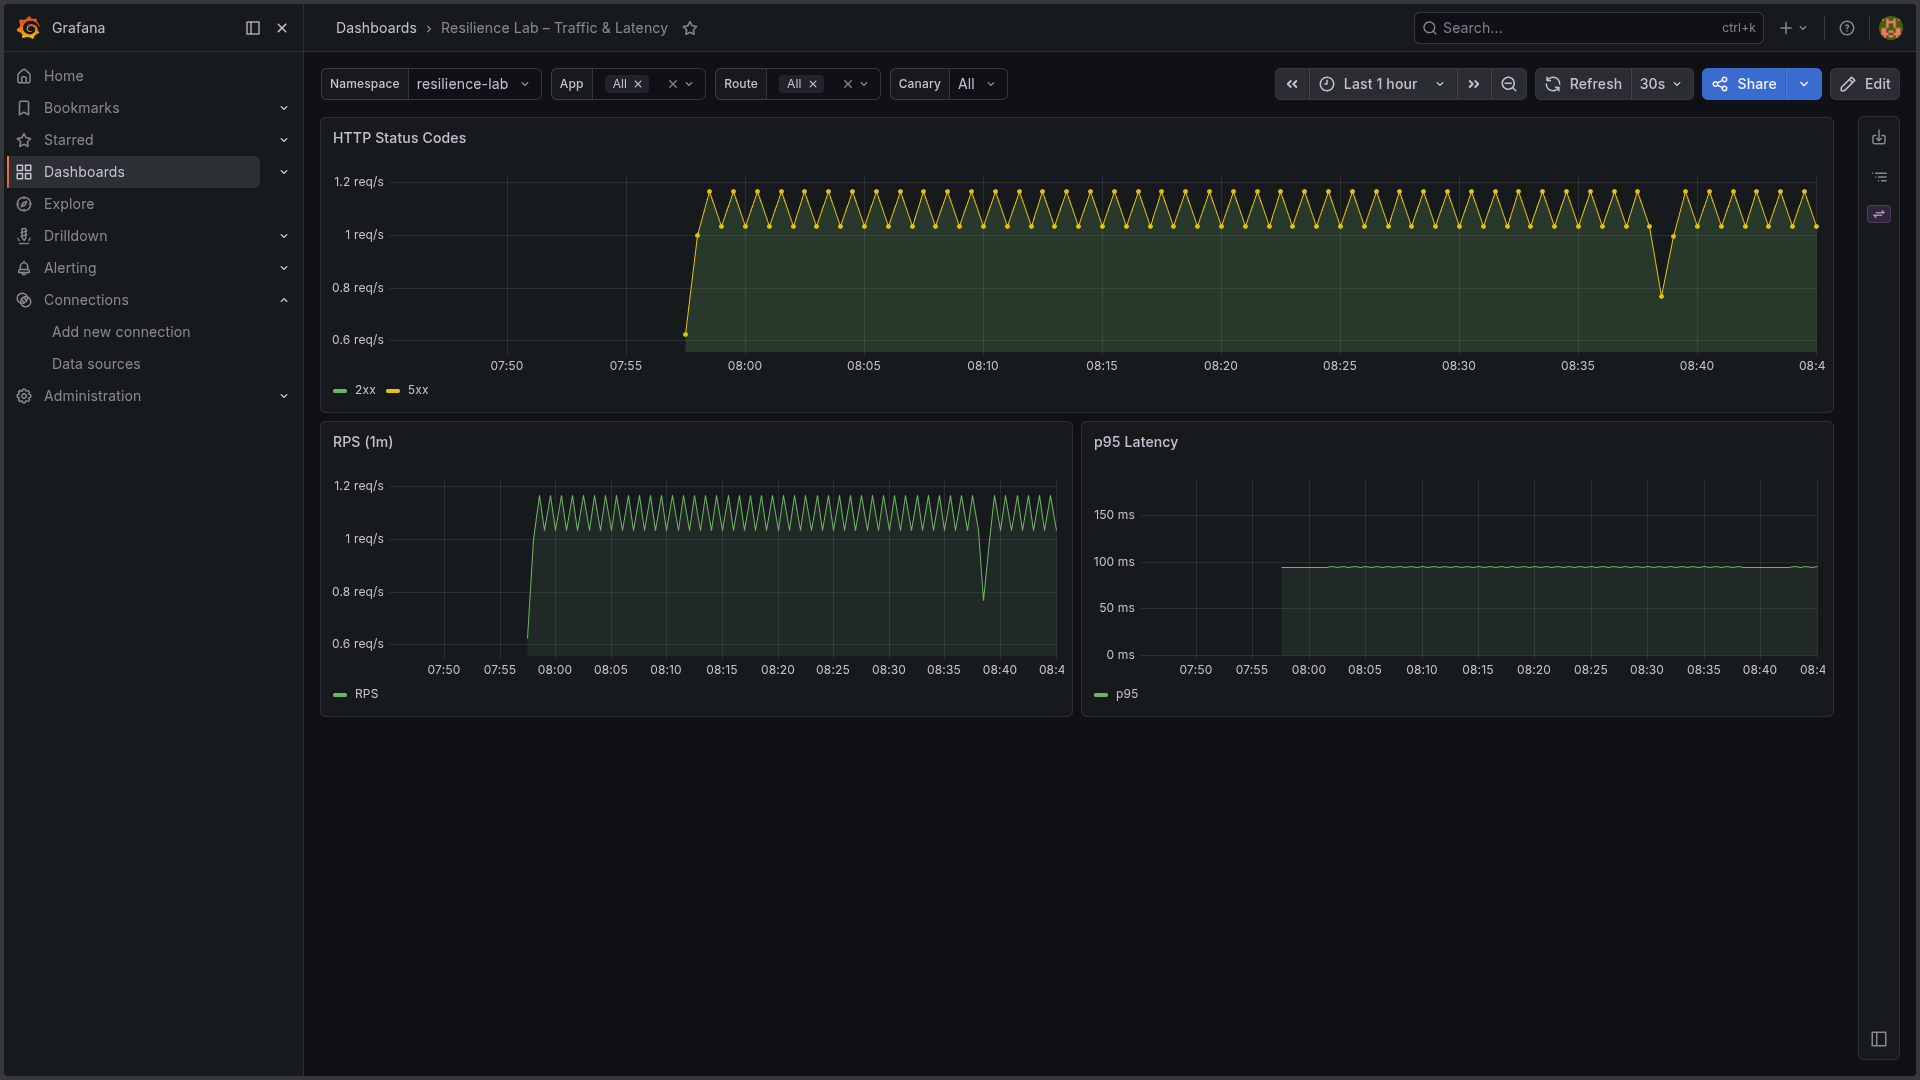
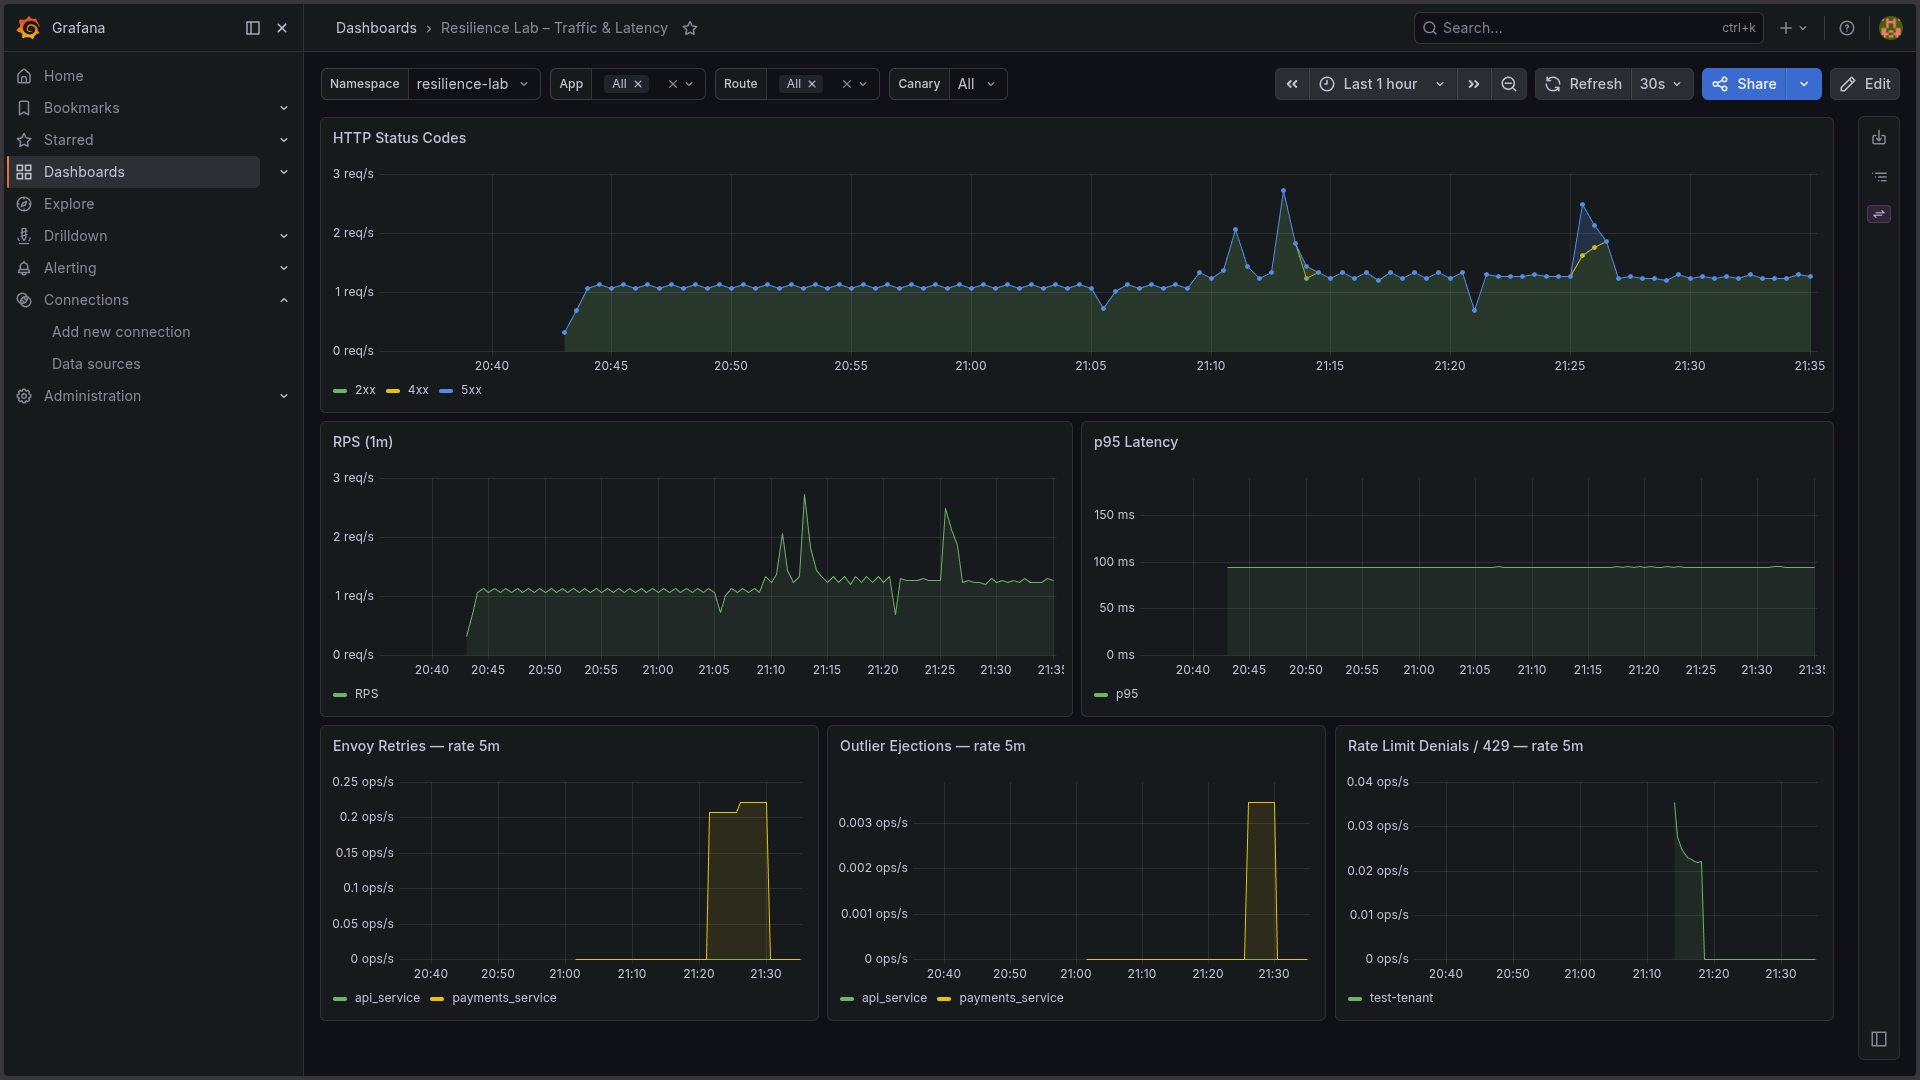
feat(observability): add retries, outlier ejection and 429 panels (closes #37)
Add envoy:retries:rate5m and envoy:outlier_ejections:rate5m recording
rules, three new dashboard panels (Envoy Retries, Outlier Ejections,
Rate Limit Denials / 429 - all rate 5m), docs, and updated screenshot.

diff --git a/docs/observability.md b/docs/observability.md
@@ -172,6 +172,23 @@ curl -u admin:<password from Secret prometheus-grafana> http://localhost:3000/ap
 `/api/search` should list "Resilience Lab 0 System Overview" at
 `/d/adnxcgd/resilience-lab-0-system-overview`.
 
+### Resilience Lab – Traffic & Latency
+
+The "Resilience Lab – Traffic & Latency" dashboard (`uid: resilience-core`) is
+provisioned the same way, via `deploy/helm/dashboards/resilience.json` and
+`deploy/helm/templates/grafana-dashboard-resilience.yaml`. Panels:
+
+- HTTP Status Codes, RPS (1m), p95 Latency
+- Envoy Retries — rate 5m (`envoy:retries:rate5m`, by `envoy_cluster_name`)
+- Outlier Ejections — rate 5m (`envoy:outlier_ejections:rate5m`, by `envoy_cluster_name`)
+- Rate Limit Denials / 429 — rate 5m (`api:rate_limit_denied:rate5m`, by `tenant`)
+
+The retry/ejection/429 panels read from the recording rules above rather than
+the raw `*_total` counters, so they show smoothed per-second rates instead of
+ever-growing totals.
+
+![Resilience Lab – Traffic & Latency dashboard](img/resilience-dashboard.png)
+
 ## Prometheus Configuration
 
 Prometheus-related manifests:
@@ -196,6 +213,8 @@ The project currently defines recording rules for:
 - Envoy 5xx error rate
 - Envoy p95 upstream request duration
 - Envoy active upstream connections
+- Envoy retry rate (`envoy:retries:rate5m`)
+- Envoy outlier ejection rate (`envoy:outlier_ejections:rate5m`)
 - API request rate
 - API 5xx error rate
 - Rate-limit allowed/denied request rates

diff --git a/README.md b/README.md
@@ -135,7 +135,8 @@ M0–M2 done (bootstrap, CI/CD, Helm, networking layer, resilience primitives). 
 - ✅ Alert rules (HighErrorRate, APIDown, PrometheusTargetDown)
 - ✅ Grafana: System Overview + Traffic & Latency dashboards
 - ✅ Loki + Promtail log aggregation, LogQL in Grafana Explore
-- ✅ Grafana resilience dashboard (rate limiting / circuit breaker panels)
+- ✅ Grafana resilience dashboard: traffic, latency, retries, outlier
+  ejections, and rate-limit denials
 
 Up next — **M4:** security audit, chaos scenarios, and the next stable release.
 
